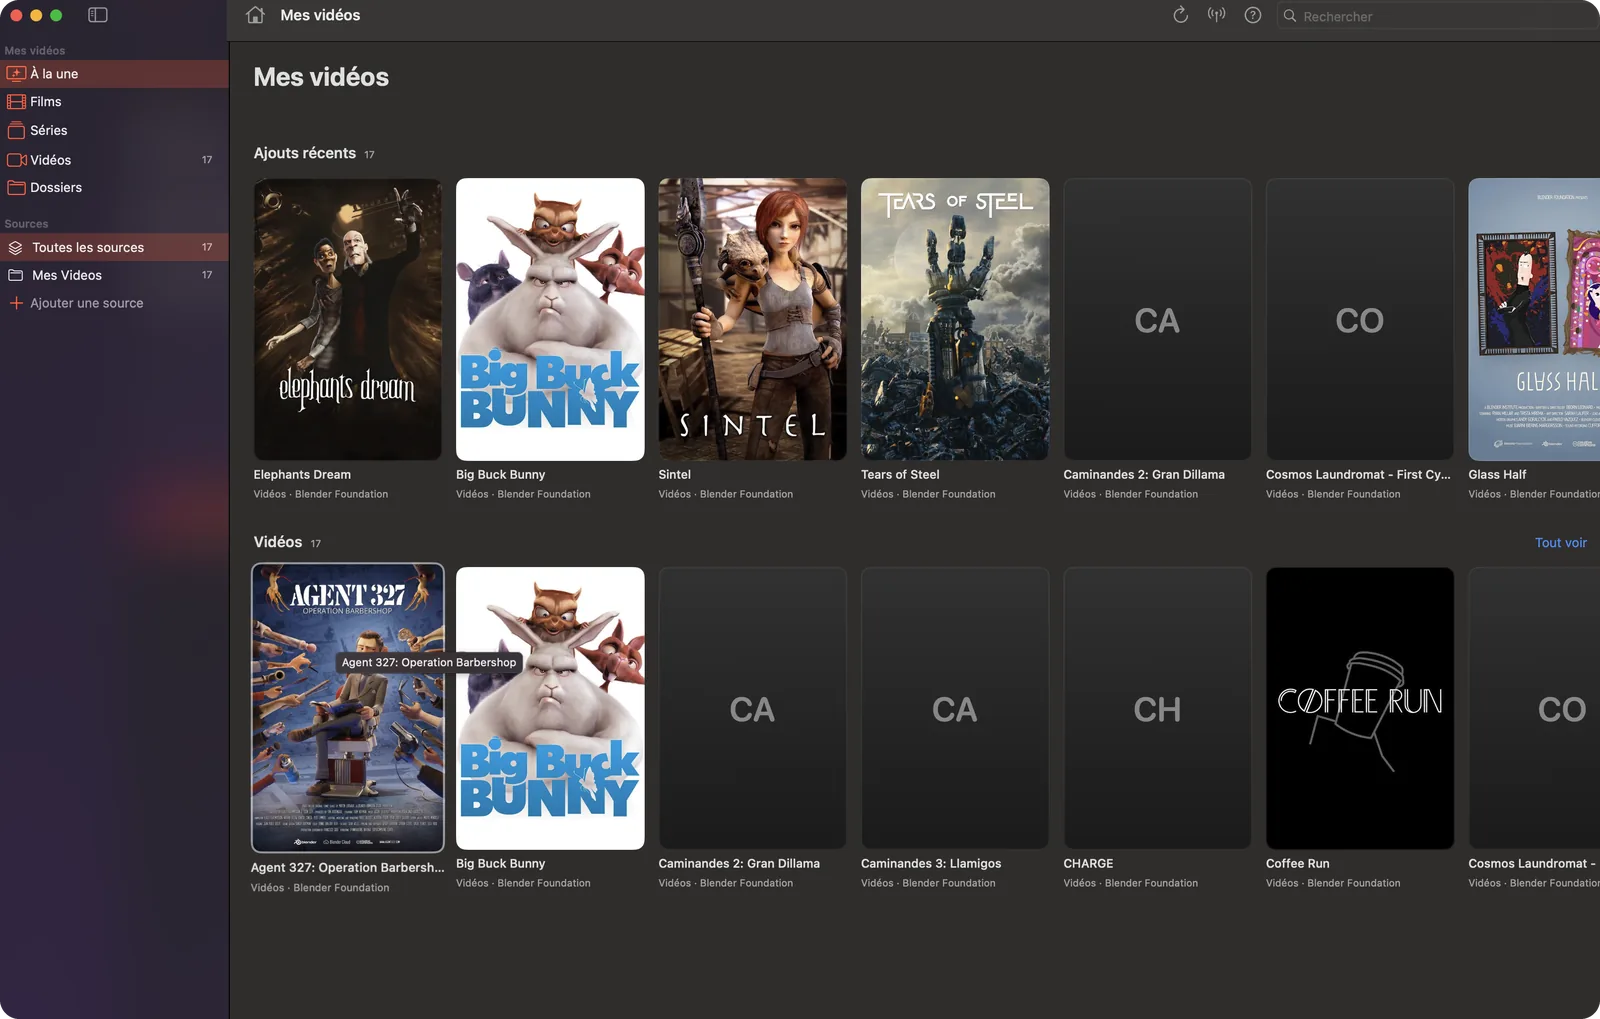
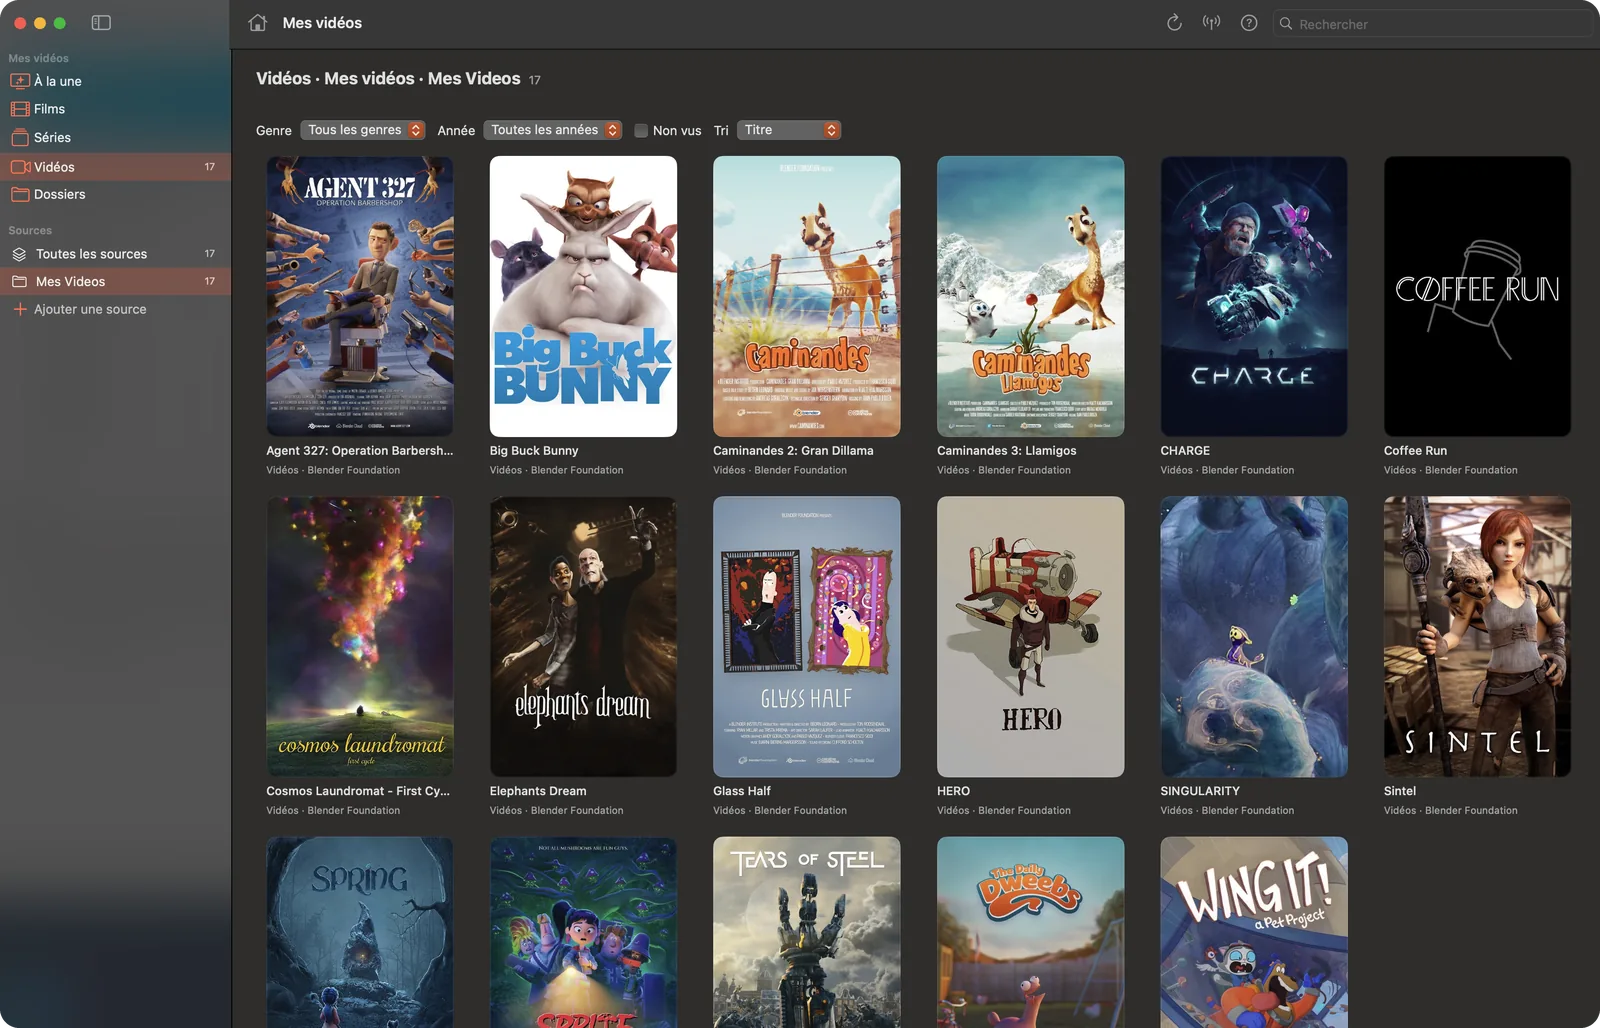
Capture Mes vidéos avec les fiches corrigées
Claude-Session: https://claude.ai/code/session_013hy8jXPaWAxvKH2vqZ1voK

diff --git a/public/films-series.html b/public/films-series.html
@@ -60,7 +60,7 @@
   <main class="doc" id="contenu">
     <h1>Films et séries</h1>
     <p class="page-lead">Un catalogue qui se parcourt comme une vidéothèque : des affiches, des fiches complètes, et la reprise exactement là où vous vous étiez arrêté.</p>
-    <figure class="app-shot"><img src="/img/app-films.webp" width="1600" height="1019" alt="Mes vidéos dans Kastideo : affiches de films en rangées horizontales et sources dans la colonne de gauche" loading="lazy" decoding="async"><figcaption>Mes vidéos : films en affiches, ici des courts-métrages libres de la fondation Blender.</figcaption></figure>
+    <figure class="app-shot"><img src="/img/app-films.webp" width="1600" height="1028" alt="Mes vidéos dans Kastideo : grille d'affiches de films avec filtres par genre et par année" loading="lazy" decoding="async"><figcaption>Mes vidéos : affiches, filtres et fiches corrigées, ici avec des courts-métrages libres de la fondation Blender.</figcaption></figure>
 
     <h2 id="fiches">Des fiches complètes</h2>
     <p>Un clic sur l'affiche d'un film ou d'une série ouvre sa fiche : grande image de fond, affiche, année, durée, genres, note, résumé, réalisateur et distribution avec photos. Les boutons Lire ou Reprendre, Bande-annonce, Télécharger et favori sont à portée de main, avec un bouton Retour pour revenir au catalogue.</p>

diff --git a/public/en/films-series.html b/public/en/films-series.html
@@ -60,7 +60,7 @@
   <main class="doc" id="contenu">
     <h1>Movies and series</h1>
     <p class="page-lead">A catalogue you browse like a video library: posters, full details pages, and resume exactly where you left off.</p>
-    <figure class="app-shot"><img src="/img/app-films.webp" width="1600" height="1019" alt="My videos in Kastideo: movie posters in horizontal rows and sources in the left column" loading="lazy" decoding="async"><figcaption>My videos: movies shown as posters, here free short films from the Blender Foundation. Screenshot of the French interface.</figcaption></figure>
+    <figure class="app-shot"><img src="/img/app-films.webp" width="1600" height="1028" alt="My videos in Kastideo: grid of movie posters with genre and year filters" loading="lazy" decoding="async"><figcaption>My videos: posters, filters and corrected pages, here with free short films from the Blender Foundation. Screenshot of the French interface.</figcaption></figure>
 
     <h2 id="fiches">Full details pages</h2>
     <p>A click on the poster of a movie or series opens its page: large background image, poster, year, runtime, genres, rating, plot, director and cast with photos. The Play or Resume, Trailer, Download and favourite buttons are close at hand, with a Back button to return to the catalogue.</p>

diff --git a/tools/build_pages.py b/tools/build_pages.py
@@ -318,11 +318,11 @@ SHOTS = {
                    "Réglages d'apparence : couleur d'accent et choix de l'interface Classique, Cinéma ou TV",
                    "Appearance settings: accent colour and choice of Classic, Cinema or TV interface",
                    "Réglages > Apparence : une interface par type de contenu.", "Settings > Appearance: one interface per content type."),
-    "films-series": ("app-films", 1600, 1019,
-                     "Mes vidéos dans Kastideo : affiches de films en rangées horizontales et sources dans la colonne de gauche",
-                     "My videos in Kastideo: movie posters in horizontal rows and sources in the left column",
-                     "Mes vidéos : films en affiches, ici des courts-métrages libres de la fondation Blender.",
-                     "My videos: movies shown as posters, here free short films from the Blender Foundation."),
+    "films-series": ("app-films", 1600, 1028,
+                     "Mes vidéos dans Kastideo : grille d'affiches de films avec filtres par genre et par année",
+                     "My videos in Kastideo: grid of movie posters with genre and year filters",
+                     "Mes vidéos : affiches, filtres et fiches corrigées, ici avec des courts-métrages libres de la fondation Blender.",
+                     "My videos: posters, filters and corrected pages, here with free short films from the Blender Foundation."),
     "guide-m3u-mac": ("app-welcome", 1400, 834,
                       "Écran de bienvenue de Kastideo avec le bouton Ajouter une source",
                       "Kastideo welcome screen with the Add a source button",
